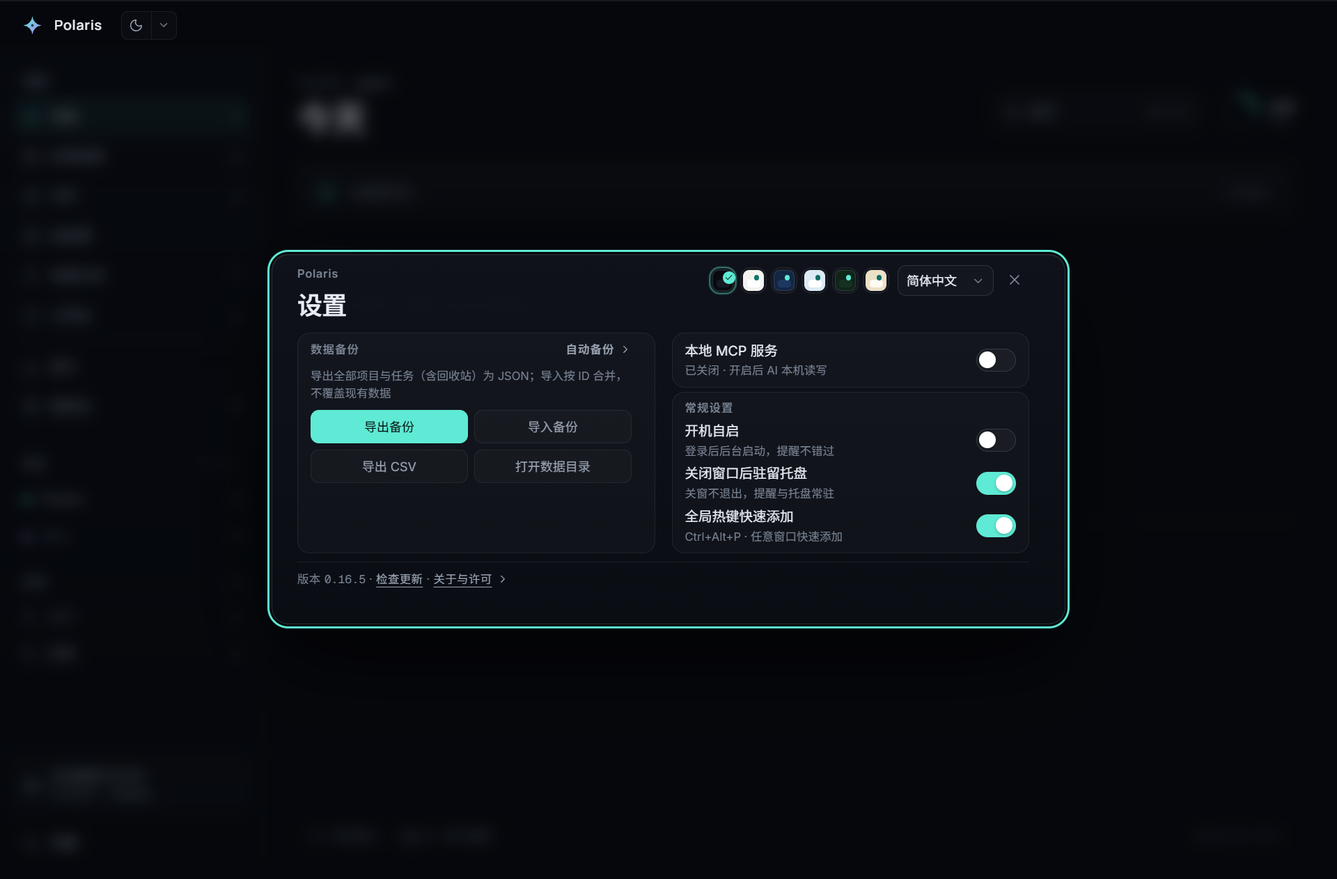
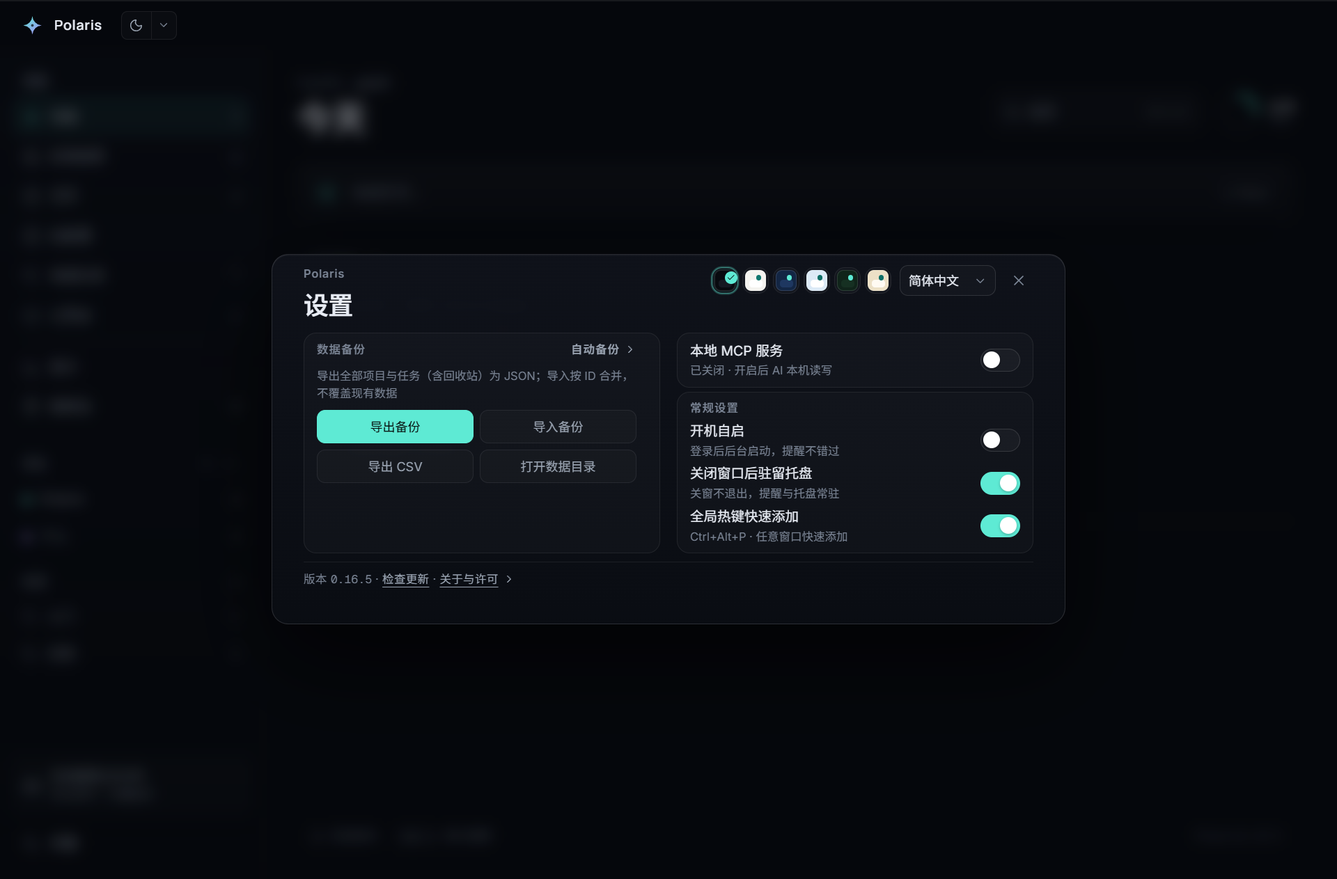
设置页左右对称留白，叉号并入主题横条右缘对齐
- scrollbar-gutter 改 stable both-edges：单侧 stable 曾让右留白比左多一个
  槽宽（用户报障左右不对称）；水平 padding 20 + 槽 10 = 左右各 30，逐像素
  对称，槽宽漂移也不破对称，超帽出滚动条仍零横向抖动
- 关闭钮从绝对定位（right:24 悬在 padding/槽/横条让位三套基线之间）改为
  主题横条末项 order:3：右缘与右列卡片同基线，垂直与色样/下拉同行居中；
  横条不再 padding-right 让位，最窄 635 档 276px ≤ 半幅 279.5px
- 冒烟新增 settingsSymmetricEdges：三档窗口（含 683×607 实宽档）量左右
  留白相等、叉号右缘贴右列、标题左缘贴备份卡、叉号与下拉同行居中；
  settingsNoScrollMcp/settingsCentered/csvExportWorks 补进 checks 门控
  （此前只展示不门控），门控数 165 与两 README 口径一致
- 中英设置页截图重拍：真指针点击面板空白消 :focus-visible 青边，归档口径一致

diff --git a/src/main/harness/smoke.ts b/src/main/harness/smoke.ts
@@ -4215,6 +4215,53 @@ export async function runSmokeTest(): Promise<void> {
       }
     }
 
+    // 设置页左右对称 + 叉号右缘对齐（用户报障左右留白不一致/叉号悬空）：
+    // both-edges 滚动条槽让左右有效留白逐像素相等；关闭钮是主题横条末项，
+    // 右缘与右列卡片右缘同基线，标题左缘与备份卡左缘同基线，叉号与语言
+    // 下拉同行居中。三档窗口（含 683×607 实机窄档）量完即关。
+    let settingsSymmetricEdges = false
+    if (mainWindow) {
+      const originalSize = mainWindow.getSize()
+      try {
+        const cases = []
+        for (const [w, h] of [[1024, 576], [683, 607], [1280, 900]] as Array<[number, number]>) {
+          mainWindow.setSize(w, h)
+          await settledFrames(mainWindow.webContents)
+          cases.push(await mainWindow.webContents.executeJavaScript(`(async () => {
+            ${pageHelpers}
+            await waitFor(() => !document.querySelector('.settings-panel'));
+            document.querySelector('.settings-item').click();
+            const panel = await waitFor(() => document.querySelector('.settings-panel'));
+            if (!panel) return { ok: false };
+            await sleep(400);
+            const pr = panel.getBoundingClientRect();
+            const backup = panel.querySelector('.settings-section--backup').getBoundingClientRect();
+            const mcp = panel.querySelector('.settings-section--mcp').getBoundingClientRect();
+            const close = panel.querySelector('.detail-close').getBoundingClientRect();
+            const lang = panel.querySelector('.settings-language-select').getBoundingClientRect();
+            const title = panel.querySelector('.settings-title').getBoundingClientRect();
+            const leftInset = backup.left - pr.left;
+            const rightInset = pr.right - mcp.right;
+            const closeFlush = Math.abs(close.right - mcp.right) <= 1;
+            const titleFlush = Math.abs(title.left - backup.left) <= 1;
+            const rowAligned = Math.abs((close.top + close.bottom) / 2 - (lang.top + lang.bottom) / 2) <= 2;
+            document.querySelector('.settings-panel .detail-close')?.click();
+            await sleep(250);
+            return {
+              ok: Math.abs(leftInset - rightInset) <= 1 && closeFlush && titleFlush && rowAligned,
+              leftInset, rightInset, closeRight: close.right, mcpRight: mcp.right
+            };
+          })()`))
+        }
+        console.log('SETTINGS_SYMMETRIC_METRICS', JSON.stringify(cases))
+        settingsSymmetricEdges = cases.every((c) => c?.ok === true)
+        if (!settingsSymmetricEdges) console.error('SETTINGS_SYMMETRIC_FAIL', JSON.stringify(cases))
+      } finally {
+        mainWindow.setSize(originalSize[0], originalSize[1])
+        await settledFrames(mainWindow.webContents)
+      }
+    }
+
     // 设置页备份零抖动（1024×576 实机档）：左列备份卡 contain:size + stretch
     // 吸收手风琴展开高度——展开/收起前后面板内容高度、页脚顶边、外框、右列
     // 高度逐像素相等，且行真渲染在卡内（非恒真）。3 份 fixture 触发列表分支，
@@ -5321,7 +5368,11 @@ export async function runSmokeTest(): Promise<void> {
       settingsFitsDefault: settingsFitsDefault === true,
       settingsFitsCompact: settingsFitsCompact === true,
       settingsNoShift: settingsNoShift === true,
+      settingsNoScrollMcp: settingsNoScrollMcp === true,
+      settingsCentered: settingsCentered === true,
+      csvExportWorks: csvExportWorks === true,
       settingsLayoutV2: settingsLayoutV2 === true,
+      settingsSymmetricEdges: settingsSymmetricEdges === true,
       settingsBackupNoShift: settingsBackupNoShift === true,
       settingsAboutStable: settingsAboutStable === true,
       trayToggleWorks: trayToggleWorks === true,
@@ -5428,6 +5479,7 @@ export async function runSmokeTest(): Promise<void> {
           csvExportWorks,
           settingsNoShift,
           settingsLayoutV2,
+          settingsSymmetricEdges,
           settingsAboutStable,
           trayToggleWorks,
           trayMenuEntries,

diff --git a/src/renderer/src/styles/globals.css b/src/renderer/src/styles/globals.css
@@ -4458,19 +4458,19 @@ textarea {
     'backup side'
     'footer footer'
     'status status';
-  /* 列距 16 补偿常驻滚动条槽的 10px：列宽与无槽时代逐像素同宽，
-     描述折行行为不变，高度预算不漂移。 */
+  /* 列距 16：最窄 635 面板档半幅 279.5px，主题横条 140 + 隙 8 + 语言 92
+     + 隙 8 + 关闭钮 28 = 276px 吞得下（关闭钮并入横条后不再额外让位）。 */
   column-gap: 16px;
   row-gap: 8px;
   align-items: start;
   width: min(760px, calc(100vw - 48px));
   max-height: calc(100vh - var(--settings-inset-top) - 24px);
   overflow-y: auto;
-  /* 滚动条槽常驻：展开关于超帽时滚动条才出现，会瞬间挤窄内容 10px →
-     主题卡收缩、描述折行、整片重排 = 横向抖动。预留槽后出不出现滚动条
-     内容宽度都不变（与侧栏/主区同一套 scrollbar-gutter 词汇）。 */
-  scrollbar-gutter: stable;
-  padding: 10px 24px;
+  /* 滚动条槽常驻且左右对称（both-edges）：超帽出滚动条不挤窄内容 = 零横向
+     抖动；单侧 stable 曾让右留白比左多一个槽宽（用户报障左右不对称）。
+     水平 padding 20 + 槽 10 = 左右各 30，逐像素对称，槽宽漂移也不破对称。 */
+  scrollbar-gutter: stable both-edges;
+  padding: 10px 20px;
   border: 1px solid var(--line-strong);
   border-radius: 16px;
   background: var(--command-bg);
@@ -4487,12 +4487,11 @@ textarea {
   gap: 16px;
 }
 
-/* 关闭钮钉面板右上角：主题横条住在 header 同行右半，关闭钮若留在
-   header flex 里会被挤到面板中线。绝对定位不占布局高度。 */
-.settings-header .detail-close {
-  position: absolute;
-  top: 10px;
-  right: 24px;
+/* 关闭钮是主题横条的末项（order:3）：右缘与右列卡片右缘同基线，
+   不再绝对定位悬在「面板 padding / 滚动条槽 / 横条让位」三套基线之间。 */
+.settings-section--theme .detail-close {
+  order: 3;
+  flex: none;
 }
 
 .settings-eyebrow {
@@ -4578,9 +4577,9 @@ textarea {
 }
 
 /* 语言下拉上移到主题标题行右侧，省一整行高度。 */
-/* 主题节 = 标题同行右半的色样横条 + 语言下拉：只留色样（名字/气质进
-   title），20px 六枚 + 4px 隙 = 140px，加语言 92 + 隙 8 + 关闭钮让位 34
-   = 274px ≤ 最窄两列半幅 279px（635px 面板档）。 */
+/* 主题节 = 标题同行右半：色样横条 + 语言下拉 + 关闭钮末项。只留色样
+   （名字/气质进 title），20px 六枚 + 4px 隙 = 140px，加语言 92 + 隙 8
+   + 关闭钮 28 + 隙 8 = 276px ≤ 最窄两列半幅 279.5px（635px 面板档）。 */
 .settings-section--theme {
   grid-area: theme;
   display: flex;
@@ -4588,7 +4587,6 @@ textarea {
   justify-content: flex-end;
   gap: 8px;
   min-width: 0;
-  padding-right: 34px;
 }
 
 .settings-section--theme .settings-row-title {

diff --git a/src/renderer/src/components/SettingsPanel.tsx b/src/renderer/src/components/SettingsPanel.tsx
@@ -588,13 +588,6 @@ export function SettingsPanel({ open, onClose, scrollTo = null }: SettingsPanelP
                 <div className="settings-eyebrow">Polaris</div>
                 <h2 className="settings-title">{t('settings.title')}</h2>
               </div>
-              <button
-                className="detail-close"
-                onClick={onClose}
-                aria-label={t('settings.close')}
-              >
-                <X size={16} strokeWidth={1.8} aria-hidden="true" />
-              </button>
             </div>
 
             <div className="settings-section settings-section--theme">
@@ -606,6 +599,15 @@ export function SettingsPanel({ open, onClose, scrollTo = null }: SettingsPanelP
                   <LanguageSelect />
                 </span>
               </div>
+              {/* 关闭钮住横条末项（CSS order:3）：右缘与右列卡片同基线，
+                  垂直与色样/下拉同行居中。DOM 顺序 = 视觉顺序 = 焦点顺序。 */}
+              <button
+                className="detail-close"
+                onClick={onClose}
+                aria-label={t('settings.close')}
+              >
+                <X size={16} strokeWidth={1.8} aria-hidden="true" />
+              </button>
               {/* 色样横条：六枚 swatch 一排，与标题同行（header 左 / theme 右），
                   名字+气质描述进 title 提示。旧 2×3 卡片网格吃 156~210px，
                   是设置页超帽滚动的最大一块；横条零额外行，一屏守卫各档

diff --git a/CLAUDE.md b/CLAUDE.md
@@ -182,7 +182,7 @@ npm run make:icon   # regenerate build/icon.png / .ico / .icns
 - Two locales ship: `zh-CN` (default) and `en`. The dictionary is a lightweight hand-rolled module under `src/shared/i18n/` — no third-party i18n library. Chinese is the mother table, split by domain into nine files (`common` / `nav` / `views` / `detail` / `quickAdd` / `settings` / `dialogs` / `main` / `features`) merged in `zh.ts`; `en.ts` is typed `const en: Messages`, so a missing English key is a typecheck error. `translate(locale, key, params)` interpolates `{name}` and falls back to `zhCN` then the raw key. Brand name `Polaris` is never translated.
 - Renderer: `useLocaleStore` (Zustand) owns the locale, persisted in localStorage `polaris-locale`. Initial value = URL query `locale` → stored value → `navigator.language` through `localeFromLanguageTag` (zh* → `zh-CN`, everything else → `en`). Components call `useT()` for a locale-bound `t` and `useLocale()` when a helper needs the locale (dates, recurrence, theme labels). `LocaleSync` is mounted once in `App.tsx` and syncs `<html lang>`, pushes `app:set-locale` to the main process, follows `storage` events from other windows via `setState` (never writing back), and exposes the smoke hook `window.__polarisSetLocale`.
 - Main process: `src/main/locale.ts` is the single record, persisted in the existing `meta` table under `locale` (no migration). `initAppLocale()` defaults to `zh-CN` whenever `POLARIS_SMOKE` / `POLARIS_SHOT` / `POLARIS_SCREENSHOT` is set (harness builds only — the env read is behind `__POLARIS_HARNESS__`), overridable with `POLARIS_LOCALE` for English screenshots — every existing smoke assertion and screenshot works on Chinese text. `db.ts` `seedLocale()` mirrors the same precedence independently (seeding runs before `initAppLocale`, whose meta read needs the database), so first-launch demo tasks match the UI language. `app:get-locale` / `app:set-locale` live inline in `app.whenReady()`; a successful set also calls `updateTrayLocale()`. The renderer URL carries `?locale=` so the first frame paints the authoritative language before the store boots (the splash does too). Tray labels go through the `tray.*` keys and `getTrayMenuLabels()` reads the built menu; `describeTrayCheck(state, locale = 'zh-CN')` is the pure helper behind tray balloons; native file dialogs use `translate(getCurrentLocale(), 'native.*')`.
-- The language switch is `LanguageSelect.tsx`, a hand-drawn dropdown sitting on the theme section's title row (right side) in `SettingsPanel`, saving a full row of height. It replaces the native `<select>` because the OS draws the native popup white regardless of theme; the menu is absolutely positioned inside the row (scrolls with the panel, no viewport repositioning math) and paints with `--panel-bg` / `--line-strong` / `--hover` tokens like `ThemeMenu`. Options are `div[role="option"]` with roving tabindex (never buttons — the trap's FOCUSABLE selector counts buttons); Esc must `stopPropagation` or the settings panel's window listener closes the whole panel; Tab closes without trapping; outside pointerdown and blur-outside close it. One unified two-column layout serves **every** window height (the old >860px single-column variant stacked MCP-on content to 881px and always scrolled, and crossing the breakpoint reflowed the whole panel): named `grid-template-areas` place header left / theme-swatch strip right on the first row (the close button is absolutely pinned top-right so it never competes with the strip), backup card left / MCP + General wrapped in `settings-side` right, footer + status spanning; sections can be added or moved without breaking the grid. Right-column row descriptions are single-line ellipsis and error / unsupported states **replace** the description in the same row (`.is-error[role=alert]`, full text in `title`) — zero conditional rows, so column height is fully deterministic; `settingsNoScrollMcp` pins scrollHeight ≤ clientHeight with MCP on + update status across zh/en × five window sizes (1024×576, 980×640, 683×607, 1280×840, 1280×900). The backup group description clamps to two lines and the accordion's 24h/21-copy/merge note lives in the toggle's `title`, keeping the expanded list's first row inside the 207px card at 1024×576 without scrolling. General / MCP / backup are group cards (`--surface-1` + `--line`, radius 12 — same material as theme options). The right column's content is fixed, so it prices the grid row; the left backup card — the only group whose height varies (accordion, status lines) — uses `contain: size` (zero intrinsic contribution, never prices the row) plus `align-self: stretch` (fills the row) and an in-card flex chain (`auto-backup-body` / `auto-backup-list` `flex: 1` + `min-height: 0`, the list scrolls inside the card), so expanding/collapsing automatic backups changes no outer geometry — pinned by the `settingsBackupNoShift` smoke discriminator (three fixture backups at 1024×576, pixel-identical panel content height / footer top / outer frame / right column across the toggle, rows verified inside the card). Both columns stay equal-height in every state (`balanced` now compares backup card vs side); General rows are top-aligned at fixed gap 4 — the old `space-between` stretch made uneven row gaps. Compact backup buttons are a 2×2 grid with `white-space: nowrap` (four-across in a half-width column wrapped labels inside the 32px buttons); the accordion loads the list before expanding so growth is single-stage. The overlay is **truly vertically centered with a glide** (user decision: centered looks better): `SettingsPanel` writes `--settings-inset-top = max(24px, (innerHeight - panel.offsetHeight) / 2)` from a ResizeObserver plus window resize (`offsetHeight` ignores the entrance spring's scale), and `.settings-overlay` transitions `padding-top` over 180ms — enabling MCP grows the panel and it glides to the new center instead of snapping; about/accordion/status never change panel height, so the MCP toggle is the only glide trigger, and `settingsCentered` pins equal top/bottom gaps (±2px) across two window sizes × MCP off/on; panel `max-height` subtracts the same inset, and `scrollbar-gutter: stable` reserves the 10px scrollbar slot permanently so the scrollbar appearing on overflow never reflows content width (compact `column-gap` 16 compensates the gutter to keep collapsed column widths pixel-identical to the pre-gutter era); `settingsAboutStable` also pins `clientWidth` and theme-swatch width across the toggle. About/credits are a **popover above the footer** (「关于与许可」 toggle, `motion.div` opacity+y 140ms, expanded mounts / collapsed unmounts): absolutely positioned inside `.settings-footer` (`position: relative`), so toggling changes **no layout height and no scroll geometry** — the earlier in-flow disclosure grew the panel past its cap, and collapsing after the user scrolled into the credits clamped `scrollTop` back to 0 (measured 68→0 in ≤60ms at 1280×843), snapping the view; the popover removes that whole class by construction. Esc closes only the popover while open (single window listener decides by `aboutOpen`; dual capture+bubble listeners were rejected for phase/ordering complexity), outside mousedown inside the panel closes it too; the version number stays in the footer. Smoke `settingsAboutStable` pins panel-top, footer-top, outer height, `scrollHeight` and content width immutability across the toggle at 1280×843 (the zero-growth popover contract replaces the old `grew` guard). The two options always read `简体中文` / `English` in their own language, never translated. Trigger focus uses the app's soft-focus language (faint accent border + light glow, `outline: 0`), never a hard ring. Smoke: `languageMenuThemed` compares the menu's computed background against a `var(--panel-bg)` probe byte-for-byte, clicks through both options, and checks Esc closes only the menu.
+- The language switch is `LanguageSelect.tsx`, a hand-drawn dropdown sitting on the theme section's title row (right side) in `SettingsPanel`, saving a full row of height. It replaces the native `<select>` because the OS draws the native popup white regardless of theme; the menu is absolutely positioned inside the row (scrolls with the panel, no viewport repositioning math) and paints with `--panel-bg` / `--line-strong` / `--hover` tokens like `ThemeMenu`. Options are `div[role="option"]` with roving tabindex (never buttons — the trap's FOCUSABLE selector counts buttons); Esc must `stopPropagation` or the settings panel's window listener closes the whole panel; Tab closes without trapping; outside pointerdown and blur-outside close it. One unified two-column layout serves **every** window height (the old >860px single-column variant stacked MCP-on content to 881px and always scrolled, and crossing the breakpoint reflowed the whole panel): named `grid-template-areas` place header left / theme-swatch strip right on the first row (the close button is the strip's last flex item — right edge flush with the right column, vertically centered with the swatches and language dropdown — instead of absolutely floating between padding/gutter baselines), backup card left / MCP + General wrapped in `settings-side` right, footer + status spanning; sections can be added or moved without breaking the grid. Right-column row descriptions are single-line ellipsis and error / unsupported states **replace** the description in the same row (`.is-error[role=alert]`, full text in `title`) — zero conditional rows, so column height is fully deterministic; `settingsNoScrollMcp` pins scrollHeight ≤ clientHeight with MCP on + update status across zh/en × five window sizes (1024×576, 980×640, 683×607, 1280×840, 1280×900). The backup group description clamps to two lines and the accordion's 24h/21-copy/merge note lives in the toggle's `title`, keeping the expanded list's first row inside the 207px card at 1024×576 without scrolling. General / MCP / backup are group cards (`--surface-1` + `--line`, radius 12 — same material as theme options). The right column's content is fixed, so it prices the grid row; the left backup card — the only group whose height varies (accordion, status lines) — uses `contain: size` (zero intrinsic contribution, never prices the row) plus `align-self: stretch` (fills the row) and an in-card flex chain (`auto-backup-body` / `auto-backup-list` `flex: 1` + `min-height: 0`, the list scrolls inside the card), so expanding/collapsing automatic backups changes no outer geometry — pinned by the `settingsBackupNoShift` smoke discriminator (three fixture backups at 1024×576, pixel-identical panel content height / footer top / outer frame / right column across the toggle, rows verified inside the card). Both columns stay equal-height in every state (`balanced` now compares backup card vs side); General rows are top-aligned at fixed gap 4 — the old `space-between` stretch made uneven row gaps. Compact backup buttons are a 2×2 grid with `white-space: nowrap` (four-across in a half-width column wrapped labels inside the 32px buttons); the accordion loads the list before expanding so growth is single-stage. The overlay is **truly vertically centered with a glide** (user decision: centered looks better): `SettingsPanel` writes `--settings-inset-top = max(24px, (innerHeight - panel.offsetHeight) / 2)` from a ResizeObserver plus window resize (`offsetHeight` ignores the entrance spring's scale), and `.settings-overlay` transitions `padding-top` over 180ms — enabling MCP grows the panel and it glides to the new center instead of snapping; about/accordion/status never change panel height, so the MCP toggle is the only glide trigger, and `settingsCentered` pins equal top/bottom gaps (±2px) across two window sizes × MCP off/on; panel `max-height` subtracts the same inset, and `scrollbar-gutter: stable both-edges` reserves the 10px scrollbar slot on **both** sides permanently (single-side `stable` left the right inset a slot-width wider than the left — user-reported asymmetry), so with horizontal padding 20 the effective inset is 30px per side, pixel-symmetric even if the slot width drifts, and the scrollbar appearing on overflow never reflows content width; `settingsSymmetricEdges` pins left/right insets equal, close-right flush with the right column, title-left flush with the backup card and close centered with the language dropdown across 1024×576 / 683×607 / 1280×900, and the no-scroll / centering / CSV guards joined the gated `checks` map the same day (they had been display-only); `settingsAboutStable` also pins `clientWidth` and theme-swatch width across the toggle. About/credits are a **popover above the footer** (「关于与许可」 toggle, `motion.div` opacity+y 140ms, expanded mounts / collapsed unmounts): absolutely positioned inside `.settings-footer` (`position: relative`), so toggling changes **no layout height and no scroll geometry** — the earlier in-flow disclosure grew the panel past its cap, and collapsing after the user scrolled into the credits clamped `scrollTop` back to 0 (measured 68→0 in ≤60ms at 1280×843), snapping the view; the popover removes that whole class by construction. Esc closes only the popover while open (single window listener decides by `aboutOpen`; dual capture+bubble listeners were rejected for phase/ordering complexity), outside mousedown inside the panel closes it too; the version number stays in the footer. Smoke `settingsAboutStable` pins panel-top, footer-top, outer height, `scrollHeight` and content width immutability across the toggle at 1280×843 (the zero-growth popover contract replaces the old `grew` guard). The two options always read `简体中文` / `English` in their own language, never translated. Trigger focus uses the app's soft-focus language (faint accent border + light glow, `outline: 0`), never a hard ring. Smoke: `languageMenuThemed` compares the menu's computed background against a `var(--panel-bg)` probe byte-for-byte, clicks through both options, and checks Esc closes only the menu.
 - Formatting is locale-aware: `lib/dates.ts` (`formatDue` / `formatHeaderDate` / `formatCompletedAt` / `formatDeletedAt`), `lib/dateTime.ts` (`weekdayLabels` / `monthLabel` / `dayLabel` / `dayPart`), `shared/quickAddParse.ts` (`formatParsedDue` takes an explicit locale) and `shared/recurrence.ts` (`recurrenceLabel` takes one). Pass the current locale at every call site; the default parameter exists for legacy call sites, not for new ones.
 - Adding a third language means: extend `Locale` / `LOCALES` / `isLocale` / `localeFromLanguageTag` in `src/shared/i18n/index.ts`, add an `xx.ts` implementing `Messages` and branch `translate` on it, teach the date helpers that locale, and add the option to `LanguageSelect` (it maps `LOCALES` automatically — extend its `OPTION_LABEL_KEY` and the message dictionaries). `localeFromLanguageTag` must keep defaulting non-Chinese tags to `en` until a real locale match exists.
 - Quick-add natural-language parsing is bilingual and input-driven: Chinese and English date words are both recognized in either UI language; the locale only chooses chip and receipt copy. The English layer is enumerated inline (`Step 2b` in `shared/quickAddParse.ts`), not forked — it feeds the same candidate list through the existing cluster selection, head/tail anchoring, title carving, dismissal and `candidateCounts` machinery, and reuses the existing `TokenKind`s except `offsetEn`. Grammar: today / tonight / tomorrow / day after tomorrow (plus tmr / tmw), weekday names and abbreviations with optional next / this / on (`next` = 下周 semantics; a `this` weekday already past is rejected, not rolled forward, matching Chinese 「本周五」), 3pm / 3:30pm / 3 pm / at 3 / at 15 / noon / midnight, bare morning / afternoon / evening (defaults 09/15/20, aligned with 上午/下午/晚上), in N hours|minutes|days|weeks (hours/minutes are exact millisecond offsets — instant semantics; days/weeks are wall-clock `addDays` additions, week = 7×day, matching 「后天」 — a fixed 86400000ms day would drift an hour across a DST transition), dec 25 / 25 dec / december 25 / 12/25 (US month-first), and `!high` / `!medium` / `!med` / `!low`. `2026-12-25` and `#project` were already language-neutral. False-positive defenses: ASCII lookbehind word boundaries replace the Chinese character guards, so `tomorrowland` and the `in` of `join` never match; a month name only counts when adjacent to a day number (`May the force be with you`, `march forward`, `April is nice` stay titles); a bare weekday abbreviation needs lowercase or sentence case with no following lowercase word or proper noun and is skipped after pronouns (`sat down`, `Sun Microsystems`, `SAT scores`, `Mon ami`); `good morning`-style greetings are masked whole. Offsets stay UTF-16 code-unit half-open spans so `String.slice` / `setSelectionRange` remain aligned. CSV export headers follow Todoist canonical columns and are not localized. Local MCP tool names and descriptions stay English (protocol surface, not UI). Code comments stay Chinese.

diff --git a/README.en.md b/README.en.md
@@ -77,7 +77,7 @@ If you previously installed the "all users" build (under `C:\Program Files`), un
 - **Small-screen fit**: default and minimum window sizes hug the screen's work area and re-clamp when the resolution changes; 1024×576-class screens get a compact layout with independently scrolling sidebar navigation, and the storage card and Settings stay pinned at the bottom.
 - **UI language**: switch between Simplified Chinese and English in the Settings "Color theme" section — UI text, date formats, and the tray menu update instantly and the choice is remembered; system notifications and native file dialogs follow the current language.
 - **Keyboard-first & accessibility**: the command palette (`Ctrl K`), Settings, and the narrow-screen detail drawer have focus traps, while the wide-screen inspector keeps the list operable; skip link and reduced motion are supported; all ten input fields across the app share one soft-focus language (faint border + light halo), and focus rings never match their fill color.
-- **Settings on one screen**: the Settings panel fits every window size in one screen with no vertical scroll (one unified two-column layout: left "Data backup", right "Local MCP + General", and a six-swatch theme strip sharing the header row — names and temperaments live in hover tooltips): the right column's fixed content pins the row height and its row descriptions are single-line ellipsis (errors replace the description in the same row, full text in the tooltip), while the left backup card absorbs the accordion's expansion (the list scrolls inside the card), so expanding / collapsing automatic backups leaves the panel, footer and right column pixel-identical; the backup buttons form a 2×2 grid and button labels never wrap inside a button. Each of the three groups lives in its own card, both columns equal-height in any state. The language dropdown sits at the right end of the theme row; the adaptive short-mask token (head/tail fill the box, at least first 4 / last 4, middle hidden) stretches to fill the row's remaining width, justified edge-to-edge with those right-aligned buttons, while the usage note lives in the reserved feedback slot; Export CSV is a plain button in the fourth backup-grid cell (CSV import removed); About & licenses live in a popover above the footer (zero layout growth when expanded, Esc / outside-click closes it). The panel is truly vertically centered (top inset computed from its measured height; enabling MCP glides to the new center over 180ms instead of snapping) and the scrollbar gutter is permanent — expanding About never re-flows or changes scroll state; the update-status line holds a permanent single-line slot so check results land without jumping. The custom title bar keeps native Windows minimize / maximize / close buttons.
+- **Settings on one screen**: the Settings panel fits every window size in one screen with no vertical scroll (one unified two-column layout: left "Data backup", right "Local MCP + General", and a six-swatch theme strip sharing the header row — names and temperaments live in hover tooltips): the right column's fixed content pins the row height and its row descriptions are single-line ellipsis (errors replace the description in the same row, full text in the tooltip), while the left backup card absorbs the accordion's expansion (the list scrolls inside the card), so expanding / collapsing automatic backups leaves the panel, footer and right column pixel-identical; the backup buttons form a 2×2 grid and button labels never wrap inside a button. Each of the three groups lives in its own card, both columns equal-height in any state. The language dropdown sits at the right end of the theme row; the adaptive short-mask token (head/tail fill the box, at least first 4 / last 4, middle hidden) stretches to fill the row's remaining width, justified edge-to-edge with those right-aligned buttons, while the usage note lives in the reserved feedback slot; Export CSV is a plain button in the fourth backup-grid cell (CSV import removed); About & licenses live in a popover above the footer (zero layout growth when expanded, Esc / outside-click closes it). The panel is truly vertically centered (top inset computed from its measured height; enabling MCP glides to the new center over 180ms instead of snapping) and the scrollbar gutter is permanent and symmetric on both sides (both-edges, left/right insets pixel-equal) — expanding About never re-flows or changes scroll state; the close button is the theme strip's last item, its right edge flush with the right column instead of floating; the update-status line holds a permanent single-line slot so check results land without jumping. The custom title bar keeps native Windows minimize / maximize / close buttons.
 - **About & attribution**: the version number lives permanently in the Settings footer; expanding the "About & licenses" popover reveals the MIT license and font / icon credits. Full third-party component and font notices ship with the installer in `resources/NOTICE` and `resources/licenses/`.
 
 ## Screenshots
@@ -384,7 +384,7 @@ All expected values are written as literals, never computed through the code und
 
 **Tray & hotkey**: post-build menu labels are exactly four items; tray "Settings" summons the window and opens the panel; manual-check balloon copy truth table across seven states; dev-mode checks neither popup nor summon; hotkey on by default, Settings round-trip, conflict degradation notice, hidden-window summon lands on "Today" with the input focused.
 
-**Layout & focus**: Settings one-screen guard (default 840 and compact tiers, measured after clicking check-for-updates so the status row exists); the 1024×536 low-resolution compact tier applies with no sidebar/main overflow; the storage card jumps to the backup section. A dedicated one-screen guard measures the MCP-on worst case in both languages across five window sizes (including the real 683×607 width and the 1280×900 tall tier): scrollHeight ≤ clientHeight everywhere. A centering guard measures equal top/bottom gaps (pixel-identical) across two window sizes × MCP off/on; a CSV guard pins Export CSV as a plain button (four-button 2×2, no split chevron or popover leftovers) and a main-process fixture compares the exported text line-by-line against literals (escaping/INDENT/priority/wall-clock/completion); the Settings zero-jitter guard measures at the real 1024×576 tier: adaptive short mask shape (prefix + head k+3 + … + tail k, k≥4), middle hidden, fills ≥80% of the box inner width on a single line whose box fills the remaining row width so the row is justified edge-to-edge (box flush left, button group flush right), single-line feedback slot, exactly the copy and reset buttons, and zero displacement of panel content height and footer top edge before/after check results land in their slot. The layout-v2 guard additionally verifies two-column orientation (left backup card, right MCP + General), the language dropdown's position, equal column heights (backup card vs right column), and the About collapse round-trip. The backup zero-jitter guard expands the automatic-backup accordion with three fixture backups at 1024×576 and asserts the rows render inside the stretched card while panel content height, footer top edge, outer frame and right-column height stay pixel-identical across expand and collapse. The top-edge anchoring guard verifies at 1280×843 that expanding/collapsing About leaves the panel top edge, footer top edge, outer height, content height, and content width pixel-identical (the zero-growth popover contract). Focus-ring scans cover five states — main view, detail pane, date popover, expanded theme menu, trash confirm dialog — failing if any ring matches its own fill/border color.
+**Layout & focus**: Settings one-screen guard (default 840 and compact tiers, measured after clicking check-for-updates so the status row exists); the 1024×536 low-resolution compact tier applies with no sidebar/main overflow; the storage card jumps to the backup section. A dedicated one-screen guard measures the MCP-on worst case in both languages across five window sizes (including the real 683×607 width and the 1280×900 tall tier): scrollHeight ≤ clientHeight everywhere. A centering guard measures equal top/bottom gaps (pixel-identical) across two window sizes × MCP off/on; a CSV guard pins Export CSV as a plain button (four-button 2×2, no split chevron or popover leftovers) and a main-process fixture compares the exported text line-by-line against literals (escaping/INDENT/priority/wall-clock/completion); the Settings zero-jitter guard measures at the real 1024×576 tier: adaptive short mask shape (prefix + head k+3 + … + tail k, k≥4), middle hidden, fills ≥80% of the box inner width on a single line whose box fills the remaining row width so the row is justified edge-to-edge (box flush left, button group flush right), single-line feedback slot, exactly the copy and reset buttons, and zero displacement of panel content height and footer top edge before/after check results land in their slot. The layout-v2 guard additionally verifies two-column orientation (left backup card, right MCP + General), the language dropdown's position, equal column heights (backup card vs right column), and the About collapse round-trip. A symmetry guard measures equal left/right insets, the close button's right edge flush with the right column, the title's left edge flush with the backup card, and the close button vertically centered with the language dropdown across three window sizes (including the real 683×607 tier); the one-screen / centering / CSV guards joined the gated checks map on 2026-11-19 (previously display-only). The backup zero-jitter guard expands the automatic-backup accordion with three fixture backups at 1024×576 and asserts the rows render inside the stretched card while panel content height, footer top edge, outer frame and right-column height stay pixel-identical across expand and collapse. The top-edge anchoring guard verifies at 1280×843 that expanding/collapsing About leaves the panel top edge, footer top edge, outer height, content height, and content width pixel-identical (the zero-growth popover contract). Focus-ring scans cover five states — main view, detail pane, date popover, expanded theme menu, trash confirm dialog — failing if any ring matches its own fill/border color.
 
 **Themes**: pair quick-toggle returns to the original theme after two clicks (verified for all three pairs); the six-theme matrix's `data-theme` / persistence / token application; the title-bar theme menu (all six rows in fixed order, opening focuses the current row, selection persists, `aria-expanded` resets after unmount, focus returns to the arrow, Esc closes only the menu); and typing "主题" in the palette hits six direct commands that apply on selection.
 

diff --git a/README.md b/README.md
@@ -77,7 +77,7 @@ Polaris 面向 Windows 11 桌面，用 Electron 构建，数据落在本机 SQLi
 - **小屏适配**：窗口默认与最小尺寸贴合屏幕工作区，分辨率变化时自动重收；1024×576 级别小屏走紧凑布局，侧栏导航独立滚动，存储卡与设置钉底不丢。
 - **界面语言**：设置「颜色主题」区可在简体中文 / English 之间切换，界面文字、日期格式与托盘菜单立即更新并记住选择；系统通知与原生文件对话框同步使用当前语言。
 - **键盘优先与无障碍**：命令面板（`Ctrl K`）、设置和窄屏详情有焦点陷阱，宽屏详情保持列表可操作；支持 skip link、reduced motion；全应用十处输入框统一柔和聚焦语言（淡边 + 浅光晕），焦点环绝不与填充同色。
-- **设置一屏收纳**：设置面板在所有窗口尺寸一屏放下、无上下滚动（统一两列布局：左「数据备份」、右「本地 MCP + 常规设置」，主题六枚色样横条与标题同行，名字与气质在悬浮提示里）：右列固定内容钉死行高、行描述单行省略（错误替换描述落同一行，全文进悬浮提示），左列备份卡吸收手风琴展开高度、列表卡内滚动，展开 / 收起自动备份面板、页脚、右列逐像素不动；备份按钮行 2×2 网格、钮内文字永不折行；常规 / MCP / 备份三组各自成组卡，两列任何状态同高；语言下拉坐在主题行右端、令牌自适应短掩码（头尾随盒宽填满、保底头 4 尾 4、中段隐藏）盒拉伸吃满剩余宽、与复制 / 重置整行两端对齐（按钮贴右缘），用法说明住常驻反馈槽；导出 CSV 独立成钮占 2×2 第四格（导入 CSV 功能已移除）、关于与许可收进页脚上方浮层（展开零布局增高，Esc / 点浮层外收起）；面板真·垂直居中（顶边距按实测高度实时算，启用 MCP 长高走 180ms 平滑 glide 不瞬移）、滚动条槽常驻——展开关于不挤窄重排、不改滚动状态；更新状态行常驻占位单行，检查结果落槽不跳变；自定义标题栏保留 Windows 原生最小化 / 最大化 / 关闭按钮。
+- **设置一屏收纳**：设置面板在所有窗口尺寸一屏放下、无上下滚动（统一两列布局：左「数据备份」、右「本地 MCP + 常规设置」，主题六枚色样横条与标题同行，名字与气质在悬浮提示里）：右列固定内容钉死行高、行描述单行省略（错误替换描述落同一行，全文进悬浮提示），左列备份卡吸收手风琴展开高度、列表卡内滚动，展开 / 收起自动备份面板、页脚、右列逐像素不动；备份按钮行 2×2 网格、钮内文字永不折行；常规 / MCP / 备份三组各自成组卡，两列任何状态同高；语言下拉坐在主题行右端、令牌自适应短掩码（头尾随盒宽填满、保底头 4 尾 4、中段隐藏）盒拉伸吃满剩余宽、与复制 / 重置整行两端对齐（按钮贴右缘），用法说明住常驻反馈槽；导出 CSV 独立成钮占 2×2 第四格（导入 CSV 功能已移除）、关于与许可收进页脚上方浮层（展开零布局增高，Esc / 点浮层外收起）；面板真·垂直居中（顶边距按实测高度实时算，启用 MCP 长高走 180ms 平滑 glide 不瞬移）、滚动条槽左右对称常驻（both-edges，左右留白逐像素相等）——展开关于不挤窄重排、不改滚动状态；关闭钮是主题横条末项，右缘与右列卡片同基线、不再悬空；更新状态行常驻占位单行，检查结果落槽不跳变；自定义标题栏保留 Windows 原生最小化 / 最大化 / 关闭按钮。
 - **关于与署名**：版本号常驻设置页脚，「关于与许可」浮层展开后显示 MIT 许可与字体 / 图标署名；完整第三方组件与字体声明随安装包放在 `resources/NOTICE` 与 `resources/licenses/`。
 
 ## 界面预览
@@ -382,7 +382,7 @@ npm run verify:pure
 
 **托盘与热键**：构建后菜单标签恰为四项、托盘「设置」唤起并开面板、手动检查七态气泡文案真值表、开发态检查不弹窗不唤窗；热键默认开启、设置往返、冲突降级中文提示、隐藏窗口唤起回「今天」并聚焦输入。
 
-**布局与聚焦**：设置面板一屏守卫（默认 840 与紧凑两档，点过检查更新带状态行再量）、低分辨率 1024×536 紧凑档生效且侧栏/主区不溢出、存储卡直达备份区；设置一屏守卫另在 MCP 启用最坏态按中英双语 × 五档窗口（含 683×607 实宽档与 1280×900 高窗口档）量 scrollHeight ≤ clientHeight；真居中守卫在两档窗口 × MCP 关/开四态量上下留白逐像素相等；CSV 守卫钉导出 CSV 独立成钮（四钮 2×2、无分体箭头与浮层残留），并在主进程侧用夹具逐行字面量比对导出文本（escaping/INDENT/优先级/墙钟/完成态）；零抖动守卫在实机 1024×576 档量自适应短掩码形状（前缀 + 头 k+3 + … + 尾 k，k≥4）、中段隐藏、填满整盒单行（≥80% 内宽）、盒吃满剩余宽整行两端对齐（盒左缘贴行左、按钮组贴行右）、反馈槽单行、按钮恰为复制与重置，以及检查更新结果落槽前后面板内容高度与页脚顶边零位移；布局 v2 守卫另验两列方位、语言上移、两列同高与关于折叠往返；顶边锚定守卫在 1280×843 档验展开 / 收起关于时面板顶边、页脚顶边、外框高度、内容高度与内容宽度逐像素零位移（浮层零增高契约）；焦点环扫描覆盖主视图、详情栏、日期弹层、主题菜单展开、回收站确认弹窗五种状态，任何环与自身填充/边框同色即失败。
+**布局与聚焦**：设置面板一屏守卫（默认 840 与紧凑两档，点过检查更新带状态行再量）、低分辨率 1024×536 紧凑档生效且侧栏/主区不溢出、存储卡直达备份区；设置一屏守卫另在 MCP 启用最坏态按中英双语 × 五档窗口（含 683×607 实宽档与 1280×900 高窗口档）量 scrollHeight ≤ clientHeight；真居中守卫在两档窗口 × MCP 关/开四态量上下留白逐像素相等；CSV 守卫钉导出 CSV 独立成钮（四钮 2×2、无分体箭头与浮层残留），并在主进程侧用夹具逐行字面量比对导出文本（escaping/INDENT/优先级/墙钟/完成态）；零抖动守卫在实机 1024×576 档量自适应短掩码形状（前缀 + 头 k+3 + … + 尾 k，k≥4）、中段隐藏、填满整盒单行（≥80% 内宽）、盒吃满剩余宽整行两端对齐（盒左缘贴行左、按钮组贴行右）、反馈槽单行、按钮恰为复制与重置，以及检查更新结果落槽前后面板内容高度与页脚顶边零位移；布局 v2 守卫另验两列方位、语言上移、两列同高与关于折叠往返；对称守卫在三档窗口（含 683×607 实宽档）量左右留白逐像素相等、叉号右缘与右列卡片右缘对齐、标题左缘与备份卡左缘对齐、叉号与语言下拉同行居中（一屏 / 真居中 / CSV 三守卫自 2026-11-19 起进门控，此前只展示不门控）；顶边锚定守卫在 1280×843 档验展开 / 收起关于时面板顶边、页脚顶边、外框高度、内容高度与内容宽度逐像素零位移（浮层零增高契约）；焦点环扫描覆盖主视图、详情栏、日期弹层、主题菜单展开、回收站确认弹窗五种状态，任何环与自身填充/边框同色即失败。
 
 **主题**：配对快切连点两次回到原主题（三对逐一校验）、六套主题矩阵的 `data-theme` / 持久化 / 令牌生效、标题栏主题菜单（六行齐全且顺序固定、打开即聚焦当前行、点选落库、菜单卸载后 `aria-expanded` 归位、焦点回到箭头、Esc 只收菜单），以及命令面板输入「主题」命中六条直达并选中生效。
 
